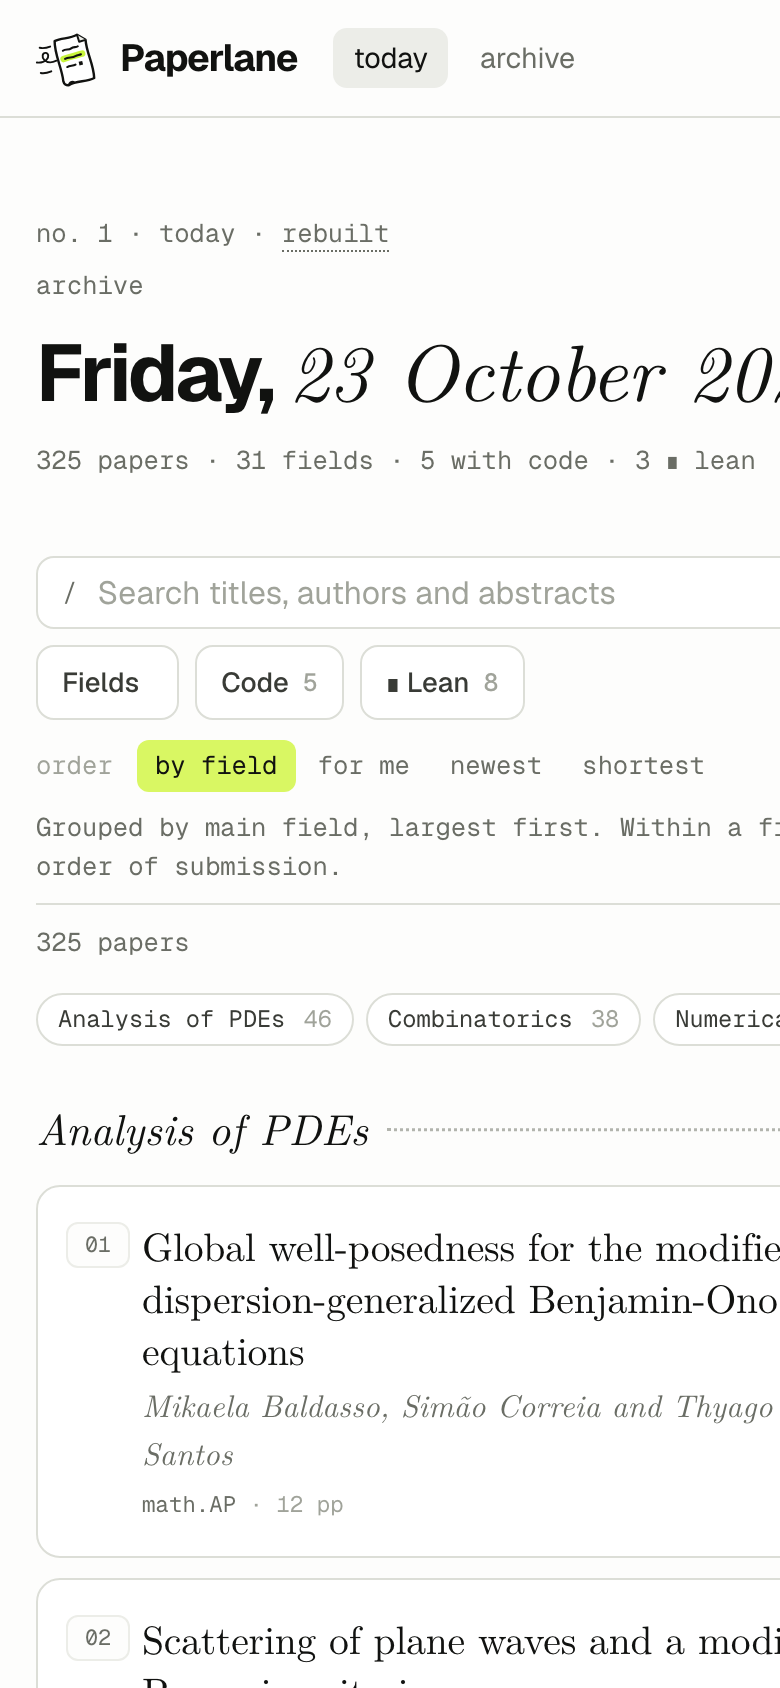
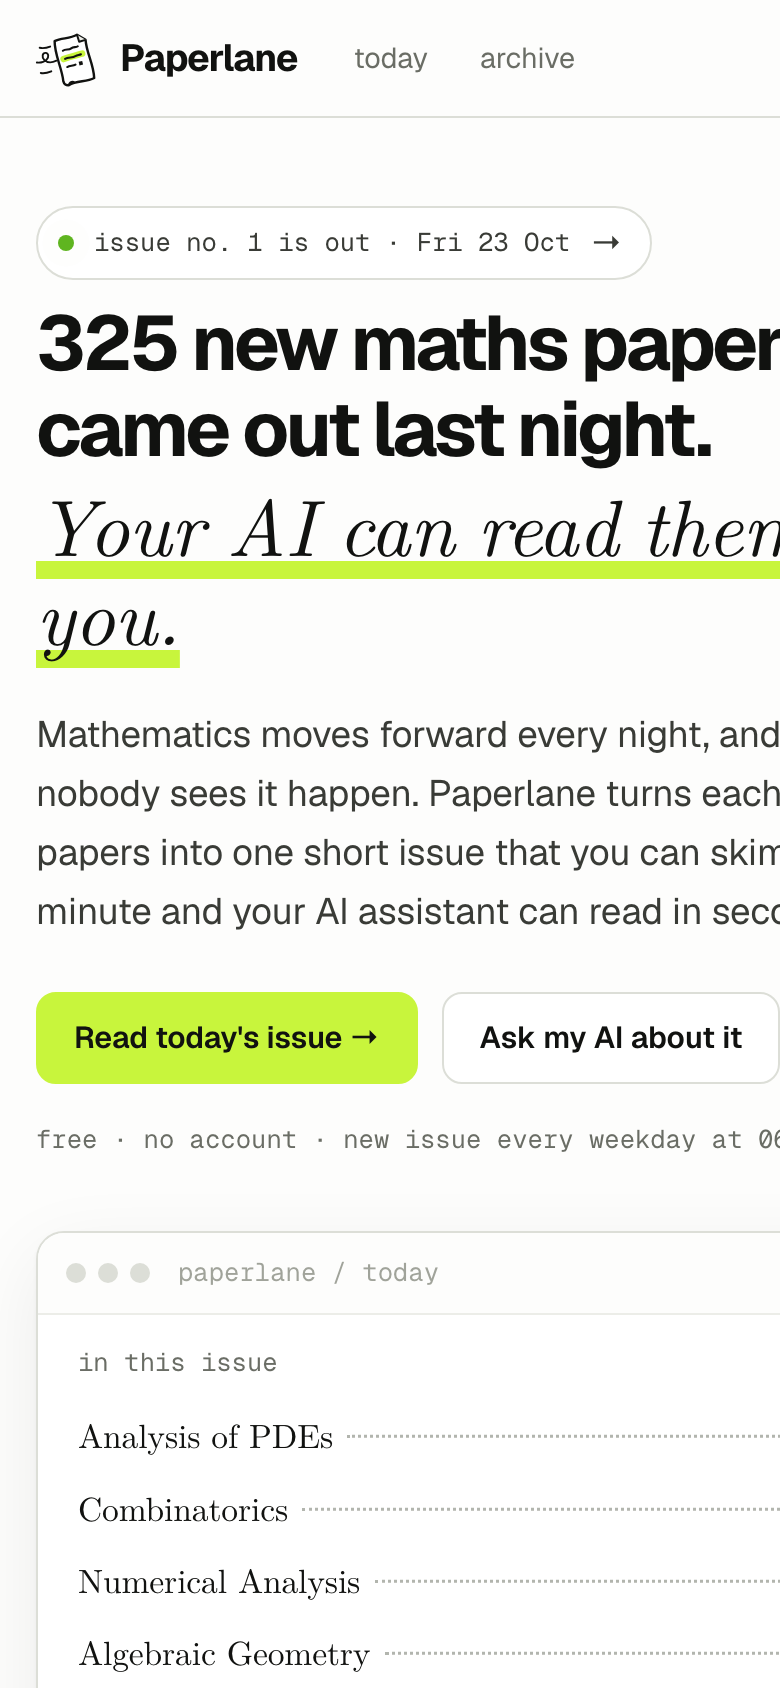
docs: pitch Paperlane to curious readers and explain why it beats reading arXiv

diff --git a/README.md b/README.md
@@ -19,7 +19,9 @@
   <a href="https://pragyaangaur.github.io/Paperlane/about.html">About</a>
 </p>
 
-Every weekday a few hundred new mathematics papers appear, and keeping up means scrolling a long list of titles. Paperlane turns each day into one short issue that you can shape around your own work. You pick your fields and type what you are working on, and the papers that matter to you come first. Every paper is also published as plain Markdown, so your AI assistant can read the whole issue and tell you what to look at.
+Every weekday a few hundred new mathematics papers come out. One night of them is about 57,000 words of abstracts, the length of a short novel, and almost nobody sees it happen. Paperlane turns each night into one short issue that you can skim in a minute and your AI assistant can read in seconds.
+
+If you do research, you pick your fields and say what you work on, and the papers closest to your work come first. If you are simply curious, you paste one prompt into the AI you already pay for, and it tells you what mathematicians found last night in plain words.
 
 Paperlane is free, needs no account and sets no cookies.
 
@@ -59,6 +61,19 @@ The page always says which order is in use, so nothing about the ranking is hidd
 | **shortest** | Sorts by the page count that the authors give. |
 
 Paperlane never ranks a paper by who wrote it.
+
+## Not a mathematician?
+
+Paste this into ChatGPT, Claude, Gemini or any assistant that can open web pages:
+
+> Read https://pragyaangaur.github.io/Paperlane/latest-titles.md, the list of new maths papers from the latest Paperlane issue. Pick the two results a curious person with no maths degree would find most surprising, read their abstracts in https://pragyaangaur.github.io/Paperlane/latest.md, and explain each one in plain words with an everyday example.
+
+## Why not just ask your AI to read arXiv?
+
+- **A night of maths is a short novel.** Paperlane reads it once and hands your assistant an index of about 7,500 words, so the answer is fast and cheap.
+- **Some answers need real work.** Checking every linked repository for a Lean project takes real requests, and compiling the proofs (coming next) takes real computing time. Paperlane does this once, for everyone.
+- **Nothing is made up.** Every tag is a plain check that anyone can repeat, so an assistant reading Paperlane cannot be fooled into claiming a proof that does not exist.
+- **It remembers.** Every issue stays in the archive, so you can look back across weeks and see when a paper was revised.
 
 ## For your AI agent
 
